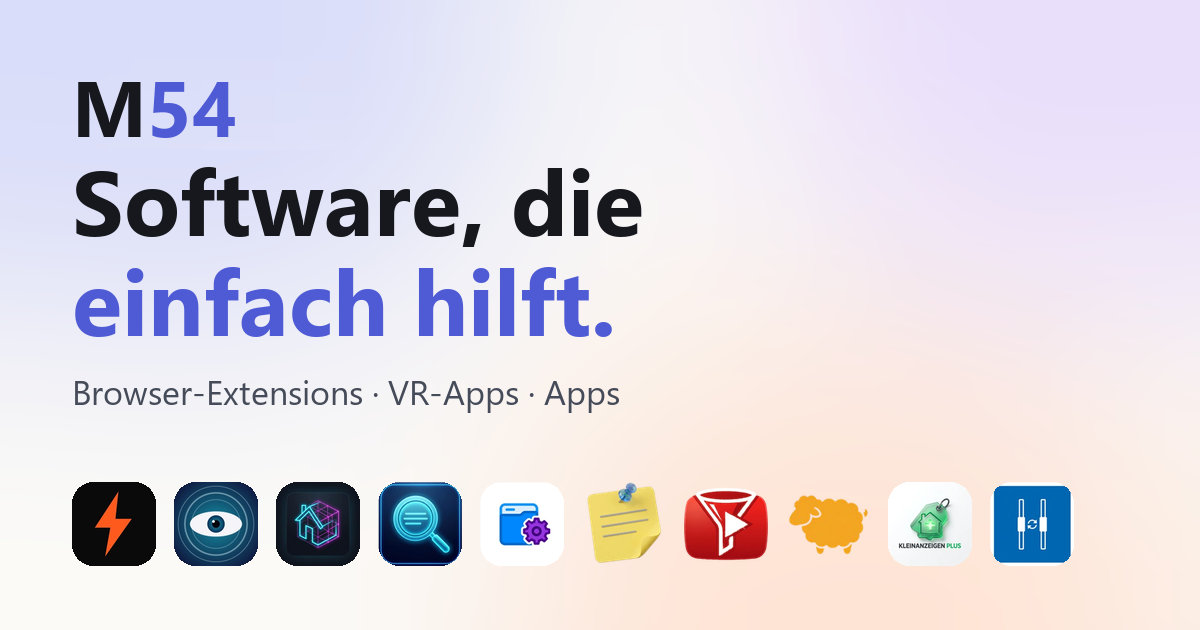
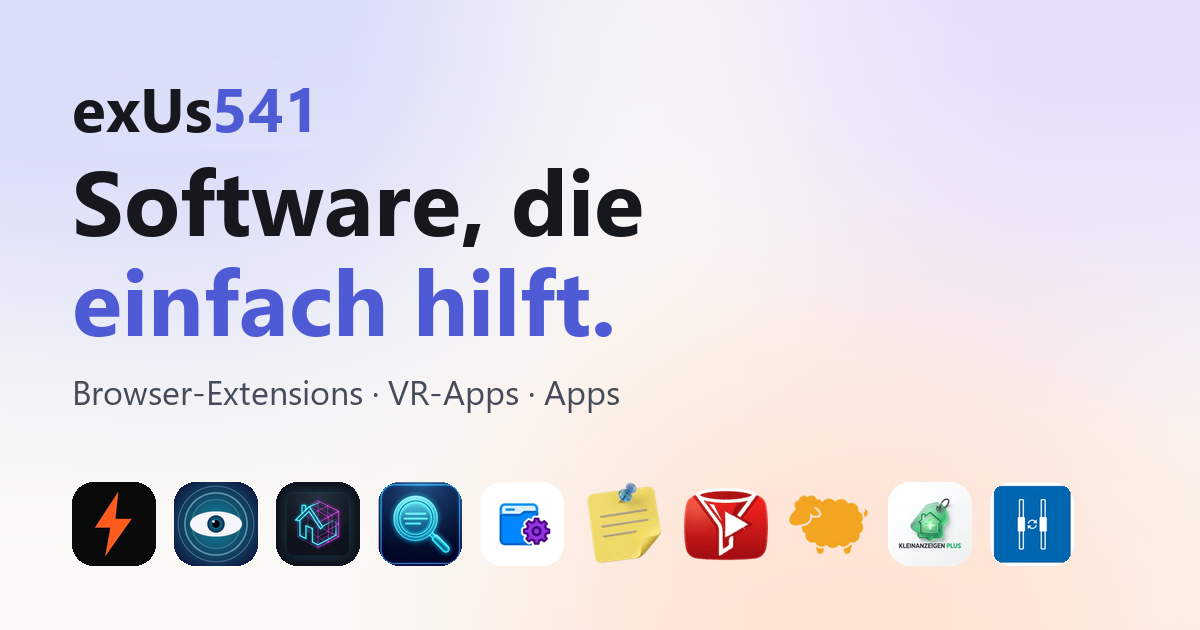
feat: Perspectives is live, rename brand back to exUs541 (#4)
Perspectives marked as published with its Meta Horizon Store link, brand renamed back to exUs541, README guide for small edits.

Changed region(s): [[0.0617, 0.1206, 0.2775, 0.2413]]

diff --git a/index.html b/index.html
@@ -3,18 +3,18 @@
 <head>
     <meta charset="UTF-8">
     <meta name="viewport" content="width=device-width, initial-scale=1.0">
-    <title data-de="M54 | Browser-Extensions, VR-Apps &amp; Apps – Stand und Termine" data-en="M54 | Browser extensions, VR apps &amp; apps – status and dates">M54 | Browser-Extensions, VR-Apps &amp; Apps – Stand und Termine</title>
-    <meta name="description" content="M54 entwickelt Browser-Extensions, VR-Apps für Meta Quest und Apps – hobbymäßig neben dem Beruf. Alle Lösungen, aktueller Stand, Fundorte und geplante Termine auf einen Blick. / Browser extensions, VR apps and apps by M54 – status, availability and planned dates at a glance.">
+    <title data-de="exUs541 | Browser-Extensions, VR-Apps &amp; Apps – Stand und Termine" data-en="exUs541 | Browser extensions, VR apps &amp; apps – status and dates">exUs541 | Browser-Extensions, VR-Apps &amp; Apps – Stand und Termine</title>
+    <meta name="description" content="exUs541 entwickelt Browser-Extensions, VR-Apps für Meta Quest und Apps – hobbymäßig neben dem Beruf. Alle Lösungen, aktueller Stand, Fundorte und geplante Termine auf einen Blick. / Browser extensions, VR apps and apps by exUs541 – status, availability and planned dates at a glance.">
     <meta name="google-site-verification" content="ENUICEJucibGlxNSVQ_SWEgc6a6xkH4N4cjW5O7rSPQ" />
     <link rel="canonical" href="https://exus541.github.io/portfolio/">
 
     <meta property="og:type" content="website">
     <meta property="og:url" content="https://exus541.github.io/portfolio/">
-    <meta property="og:title" content="M54 – Software, die einfach hilft">
+    <meta property="og:title" content="exUs541 – Software, die einfach hilft">
     <meta property="og:description" content="Browser-Extensions, VR-Apps und Apps: was es schon gibt, woran wir arbeiten und wann es fertig wird.">
     <meta property="og:image" content="https://exus541.github.io/portfolio/assets/og-image.png">
     <meta name="twitter:card" content="summary_large_image">
-    <meta name="twitter:title" content="M54 – Software, die einfach hilft">
+    <meta name="twitter:title" content="exUs541 – Software, die einfach hilft">
     <meta name="twitter:description" content="Browser-Extensions, VR-Apps und Apps: was es schon gibt, woran wir arbeiten und wann es fertig wird.">
     <meta name="twitter:image" content="https://exus541.github.io/portfolio/assets/og-image.png">
 
@@ -30,7 +30,7 @@
 
     <header class="site-header">
         <div class="container header-inner">
-            <a href="index.html" class="brand" aria-label="M54 – Startseite">M<span>54</span></a>
+            <a href="index.html" class="brand" aria-label="exUs541 – Startseite">exUs<span>541</span></a>
             <nav class="nav" id="nav" aria-label="Hauptnavigation" data-i18n-aria="nav.menu">
                 <a href="index.html#loesungen" data-i18n="nav.solutions">Lösungen</a>
                 <a href="index.html#zeitplan" data-i18n="nav.timeline">Zeitplan</a>
@@ -54,7 +54,7 @@
                 <div class="hero-inner">
                     <p class="pill" data-i18n="hero.pill">Hobbyprojekt – entwickelt neben dem Beruf</p>
                     <h1 data-i18n="hero.title">Software, die <em>einfach hilft.</em></h1>
-                    <p class="lead" data-i18n="hero.lead">M54 baut Browser-Extensions, VR-Apps und Apps für den Alltag. Hier siehst du auf einen Blick, was es schon gibt, woran wir arbeiten und wann es fertig wird.</p>
+                    <p class="lead" data-i18n="hero.lead">exUs541 baut Browser-Extensions, VR-Apps und Apps für den Alltag. Hier siehst du auf einen Blick, was es schon gibt, woran wir arbeiten und wann es fertig wird.</p>
                     <div class="hero-actions">
                         <a class="btn btn-dark" href="#loesungen"><span data-i18n="hero.cta1">Lösungen entdecken</span><span data-icon="arrow-right"></span></a>
                         <a class="btn btn-ghost" href="#zeitplan" data-i18n="hero.cta2">Was kommt wann?</a>
@@ -119,7 +119,7 @@
                 <div class="about-text">
                     <h2 data-i18n="about.title">Über uns</h2>
                     <p class="about-lead" data-i18n="about.lead">Wir entwickeln das alles aktuell hobbymäßig.</p>
-                    <p data-i18n="about.p1">Hinter M54 stecken Menschen mit ganz normalen Berufen. Alle Projekte hier entstehen in unserer Freizeit – abends, am Wochenende und aus purer Begeisterung dafür, nützliche Dinge zu bauen.</p>
+                    <p data-i18n="about.p1">Hinter exUs541 stecken Menschen mit ganz normalen Berufen. Alle Projekte hier entstehen in unserer Freizeit – abends, am Wochenende und aus purer Begeisterung dafür, nützliche Dinge zu bauen.</p>
                     <p data-i18n="about.p2">Weil wir berufstätig sind, können wir uns leider nicht ausschließlich auf die Entwicklung konzentrieren. Deshalb dauert manches länger, als wir es selbst gern hätten – und Termine sind Zielwerte, keine Garantien.</p>
                     <p data-i18n="about.p3">Unser Wunsch: irgendwann mehr Zeit für Software zu haben. Wenn dich unsere Arbeit überzeugt, kannst du uns genau dabei helfen (siehe unten).</p>
                 </div>
@@ -204,8 +204,8 @@
         <div class="container">
             <div class="footer-inner">
                 <div class="footer-links">
-                    <a href="index.html" class="brand" style="margin-right: 8px;">M<span>54</span></a>
-                    <span data-i18n="foot.rights">© {year} M54. Mit Hingabe gebaut – in der Freizeit.</span>
+                    <a href="index.html" class="brand" style="margin-right: 8px;">exUs<span>541</span></a>
+                    <span data-i18n="foot.rights">© {year} exUs541. Mit Hingabe gebaut – in der Freizeit.</span>
                     <a href="privacy.html" data-i18n="foot.privacy">Datenschutz</a>
                 </div>
                 <ul class="socials" id="socials">

diff --git a/privacy.html b/privacy.html
@@ -3,8 +3,8 @@
 <head>
     <meta charset="UTF-8">
     <meta name="viewport" content="width=device-width, initial-scale=1.0">
-    <title>Privacy Policy | M54</title>
-    <meta name="description" content="Privacy policy for the browser extensions, Android apps, Meta Quest VR apps (Nestwise, Perspectives) and website by M54.">
+    <title>Privacy Policy | exUs541</title>
+    <meta name="description" content="Privacy policy for the browser extensions, Android apps, Meta Quest VR apps (Nestwise, Perspectives) and website by exUs541.">
     <link rel="icon" type="image/png" href="assets/favicon.png">
     <link rel="preconnect" href="https://fonts.googleapis.com">
     <link rel="preconnect" href="https://fonts.gstatic.com" crossorigin>
@@ -53,7 +53,7 @@
 <body>
     <header class="site-header">
         <div class="container header-inner" style="max-width: 1120px;">
-            <a href="index.html" class="brand" aria-label="M54 – home">M<span>54</span></a>
+            <a href="index.html" class="brand" aria-label="exUs541 – home">exUs<span>541</span></a>
             <div class="header-actions">
                 <a href="index.html" class="btn btn-ghost btn-sm"><svg class="i" viewBox="0 0 24 24" aria-hidden="true"><path d="m12 19-7-7 7-7"/><path d="M19 12H5"/></svg><span>Back to overview</span></a>
             </div>
@@ -67,7 +67,7 @@
         </div>
 
         <div class="main-content">
-            <p class="lede">This policy covers everything I publish as <strong>M54</strong> (also known as exus541): browser extensions, Android apps, VR apps for Meta Quest, and this website. I build my software so that it works on your device and does not need your data.</p>
+            <p class="lede">This policy covers everything I publish as <strong>exUs541</strong>: browser extensions, Android apps, VR apps for Meta Quest, and this website. I build my software so that it works on your device and does not need your data.</p>
 
             <div class="toc" role="navigation" aria-label="Sections">
                 <a href="#summary">At a glance</a>
@@ -217,8 +217,8 @@
         <div class="container">
             <div class="footer-inner">
                 <div class="footer-links">
-                    <a href="index.html" class="brand" style="margin-right: 8px;">M<span>54</span></a>
-                    <span>&copy; 2026 M54. Built with care &ndash; in our spare time.</span>
+                    <a href="index.html" class="brand" style="margin-right: 8px;">exUs<span>541</span></a>
+                    <span>&copy; 2026 exUs541. Built with care &ndash; in our spare time.</span>
                 </div>
             </div>
         </div>

diff --git a/site.js b/site.js
@@ -1,4 +1,4 @@
-/* M54 – gemeinsame Helfer: Sprache (DE/EN), Icons, Kopfzeile */
+/* exUs541 – gemeinsame Helfer: Sprache (DE/EN), Icons, Kopfzeile */
 (function () {
   'use strict';
 
@@ -16,7 +16,7 @@
 
     'hero.pill': 'A passion project – built alongside our day jobs',
     'hero.title': 'Software that <em>simply helps.</em>',
-    'hero.lead': 'M54 builds browser extensions, VR apps and everyday apps. See at a glance what is available today, what we are working on and when it will be ready.',
+    'hero.lead': 'exUs541 builds browser extensions, VR apps and everyday apps. See at a glance what is available today, what we are working on and when it will be ready.',
     'hero.cta1': 'Explore solutions',
     'hero.cta2': 'What is coming when?',
 
@@ -34,7 +34,7 @@
 
     'about.title': 'About us',
     'about.lead': 'Right now, we build all of this as a hobby.',
-    'about.p1': 'The people behind M54 have regular day jobs. Everything you see here is made in our spare time – in the evenings, at weekends and out of pure enthusiasm for building useful things.',
+    'about.p1': 'The people behind exUs541 have regular day jobs. Everything you see here is made in our spare time – in the evenings, at weekends and out of pure enthusiasm for building useful things.',
     'about.p2': 'Because we work full time, we unfortunately cannot focus on development alone. That is why some things take longer than we would like – and why dates are targets, not guarantees.',
     'about.p3': 'Our wish is to have more time for software one day. If our work convinces you, you can help us get there (see below).',
     'about.badge.t': 'Right now: a hobby next to our jobs',
@@ -73,7 +73,7 @@
     'fb.road.d': 'See what is planned for our extensions and vote.',
     'fb.road.b': 'Open roadmap',
 
-    'foot.rights': '© {year} M54. Built with care – in our spare time.',
+    'foot.rights': '© {year} exUs541. Built with care – in our spare time.',
     'foot.privacy': 'Privacy Policy',
     'foot.marks': 'All product and brand names belong to their respective owners. Our extensions are independent and not affiliated with these companies.',
 

diff --git a/roadmap.html b/roadmap.html
@@ -3,8 +3,8 @@
 <head>
     <meta charset="UTF-8">
     <meta name="viewport" content="width=device-width, initial-scale=1.0">
-    <title>Roadmap | M54</title>
-    <meta name="description" content="Geplante Verbesserungen und Feature-Wünsche für die Browser-Extensions von M54.">
+    <title>Roadmap | exUs541</title>
+    <meta name="description" content="Geplante Verbesserungen und Feature-Wünsche für die Browser-Extensions von exUs541.">
     <link rel="icon" type="image/png" href="assets/favicon.png">
     <link rel="preconnect" href="https://fonts.googleapis.com">
     <link rel="preconnect" href="https://fonts.gstatic.com" crossorigin>
@@ -17,7 +17,7 @@
 
     <header class="site-header">
         <div class="container header-inner">
-            <a href="index.html" class="brand" aria-label="M54 – Startseite">M<span>54</span></a>
+            <a href="index.html" class="brand" aria-label="exUs541 – Startseite">exUs<span>541</span></a>
             <nav class="nav" id="nav" aria-label="Hauptnavigation" data-i18n-aria="nav.menu">
                 <a href="index.html#loesungen" data-i18n="nav.solutions">Lösungen</a>
                 <a href="index.html#zeitplan" data-i18n="nav.timeline">Zeitplan</a>
@@ -73,8 +73,8 @@
         <div class="container">
             <div class="footer-inner">
                 <div class="footer-links">
-                    <a href="index.html" class="brand" style="margin-right: 8px;">M<span>54</span></a>
-                    <span data-i18n="foot.rights">© {year} M54. Mit Hingabe gebaut – in der Freizeit.</span>
+                    <a href="index.html" class="brand" style="margin-right: 8px;">exUs<span>541</span></a>
+                    <span data-i18n="foot.rights">© {year} exUs541. Mit Hingabe gebaut – in der Freizeit.</span>
                     <a href="privacy.html" data-i18n="foot.privacy">Datenschutz</a>
                 </div>
             </div>

diff --git a/feedback.html b/feedback.html
@@ -3,7 +3,7 @@
 <head>
     <meta charset="UTF-8">
     <meta name="viewport" content="width=device-width, initial-scale=1.0">
-    <title>Feedback | M54</title>
+    <title>Feedback | exUs541</title>
     <meta name="description" content="Idee oder Fehler? Schick uns dein Feedback zu unseren Browser-Extensions und Apps.">
     <link rel="icon" type="image/png" href="assets/favicon.png">
     <link rel="preconnect" href="https://fonts.googleapis.com">
@@ -17,7 +17,7 @@
 
     <header class="site-header">
         <div class="container header-inner">
-            <a href="index.html" class="brand" aria-label="M54 – Startseite">M<span>54</span></a>
+            <a href="index.html" class="brand" aria-label="exUs541 – Startseite">exUs<span>541</span></a>
             <nav class="nav" id="nav" aria-label="Hauptnavigation" data-i18n-aria="nav.menu">
                 <a href="index.html#loesungen" data-i18n="nav.solutions">Lösungen</a>
                 <a href="index.html#zeitplan" data-i18n="nav.timeline">Zeitplan</a>
@@ -88,8 +88,8 @@
         <div class="container">
             <div class="footer-inner">
                 <div class="footer-links">
-                    <a href="index.html" class="brand" style="margin-right: 8px;">M<span>54</span></a>
-                    <span data-i18n="foot.rights">© {year} M54. Mit Hingabe gebaut – in der Freizeit.</span>
+                    <a href="index.html" class="brand" style="margin-right: 8px;">exUs<span>541</span></a>
+                    <span data-i18n="foot.rights">© {year} exUs541. Mit Hingabe gebaut – in der Freizeit.</span>
                     <a href="privacy.html" data-i18n="foot.privacy">Datenschutz</a>
                 </div>
             </div>

diff --git a/details/tabmaster.html b/details/tabmaster.html
@@ -3,7 +3,7 @@
 <head>
     <meta charset="UTF-8">
     <meta name="viewport" content="width=device-width, initial-scale=1.0">
-    <title>Rename Tabs & Change Tab Icons: TabMaster | M54</title>
+    <title>Rename Tabs & Change Tab Icons: TabMaster | exUs541</title>
     <link rel="icon" type="image/png" href="../assets/favicon.png">
     <link rel="preconnect" href="https://fonts.googleapis.com">
     <link rel="preconnect" href="https://fonts.gstatic.com" crossorigin>
@@ -13,7 +13,7 @@
 <body>
     <header class="site-header">
         <div class="container header-inner">
-            <a href="../index.html" class="brand" aria-label="M54 – home">M<span>54</span></a>
+            <a href="../index.html" class="brand" aria-label="exUs541 – home">exUs<span>541</span></a>
             <div class="header-actions">
                 <a href="../index.html#loesungen" class="btn btn-ghost btn-sm"><svg class="i" viewBox="0 0 24 24" aria-hidden="true"><path d="m12 19-7-7 7-7"/><path d="M19 12H5"/></svg><span>Back to overview</span></a>
             </div>
@@ -65,8 +65,8 @@
         <div class="container">
             <div class="footer-inner">
                 <div class="footer-links">
-                    <a href="../index.html" class="brand" style="margin-right: 8px;">M<span>54</span></a>
-                    <span>&copy; 2026 M54. Built with care &ndash; in our spare time.</span>
+                    <a href="../index.html" class="brand" style="margin-right: 8px;">exUs<span>541</span></a>
+                    <span>&copy; 2026 exUs541. Built with care &ndash; in our spare time.</span>
                     <a href="../privacy.html">Privacy Policy</a>
                 </div>
             </div>

diff --git a/details/webnote.html b/details/webnote.html
@@ -3,7 +3,7 @@
 <head>
     <meta charset="UTF-8">
     <meta name="viewport" content="width=device-width, initial-scale=1.0">
-    <title>WebNote: Draw, Highlight & Sticky Notes | M54</title>
+    <title>WebNote: Draw, Highlight & Sticky Notes | exUs541</title>
     <link rel="icon" type="image/png" href="../assets/favicon.png">
     <link rel="preconnect" href="https://fonts.googleapis.com">
     <link rel="preconnect" href="https://fonts.gstatic.com" crossorigin>
@@ -13,7 +13,7 @@
 <body>
     <header class="site-header">
         <div class="container header-inner">
-            <a href="../index.html" class="brand" aria-label="M54 – home">M<span>54</span></a>
+            <a href="../index.html" class="brand" aria-label="exUs541 – home">exUs<span>541</span></a>
             <div class="header-actions">
                 <a href="../index.html#loesungen" class="btn btn-ghost btn-sm"><svg class="i" viewBox="0 0 24 24" aria-hidden="true"><path d="m12 19-7-7 7-7"/><path d="M19 12H5"/></svg><span>Back to overview</span></a>
             </div>
@@ -63,8 +63,8 @@
         <div class="container">
             <div class="footer-inner">
                 <div class="footer-links">
-                    <a href="../index.html" class="brand" style="margin-right: 8px;">M<span>54</span></a>
-                    <span>&copy; 2026 M54. Built with care &ndash; in our spare time.</span>
+                    <a href="../index.html" class="brand" style="margin-right: 8px;">exUs<span>541</span></a>
+                    <span>&copy; 2026 exUs541. Built with care &ndash; in our spare time.</span>
                     <a href="../privacy.html">Privacy Policy</a>
                 </div>
             </div>

diff --git a/details/ytfilter.html b/details/ytfilter.html
@@ -3,7 +3,7 @@
 <head>
     <meta charset="UTF-8">
     <meta name="viewport" content="width=device-width, initial-scale=1.0">
-    <title>YouTube Channel Blocker & Video Filter | M54</title>
+    <title>YouTube Channel Blocker & Video Filter | exUs541</title>
     <link rel="icon" type="image/png" href="../assets/favicon.png">
     <link rel="preconnect" href="https://fonts.googleapis.com">
     <link rel="preconnect" href="https://fonts.gstatic.com" crossorigin>
@@ -13,7 +13,7 @@
 <body>
     <header class="site-header">
         <div class="container header-inner">
-            <a href="../index.html" class="brand" aria-label="M54 – home">M<span>54</span></a>
+            <a href="../index.html" class="brand" aria-label="exUs541 – home">exUs<span>541</span></a>
             <div class="header-actions">
                 <a href="../index.html#loesungen" class="btn btn-ghost btn-sm"><svg class="i" viewBox="0 0 24 24" aria-hidden="true"><path d="m12 19-7-7 7-7"/><path d="M19 12H5"/></svg><span>Back to overview</span></a>
             </div>
@@ -63,8 +63,8 @@
         <div class="container">
             <div class="footer-inner">
                 <div class="footer-links">
-                    <a href="../index.html" class="brand" style="margin-right: 8px;">M<span>54</span></a>
-                    <span>&copy; 2026 M54. Built with care &ndash; in our spare time.</span>
+                    <a href="../index.html" class="brand" style="margin-right: 8px;">exUs<span>541</span></a>
+                    <span>&copy; 2026 exUs541. Built with care &ndash; in our spare time.</span>
                     <a href="../privacy.html">Privacy Policy</a>
                 </div>
             </div>

diff --git a/details/siteblocker.html b/details/siteblocker.html
@@ -3,7 +3,7 @@
 <head>
     <meta charset="UTF-8">
     <meta name="viewport" content="width=device-width, initial-scale=1.0">
-    <title>Search Filter & Site Blocker | M54</title>
+    <title>Search Filter & Site Blocker | exUs541</title>
     <link rel="icon" type="image/png" href="../assets/favicon.png">
     <link rel="preconnect" href="https://fonts.googleapis.com">
     <link rel="preconnect" href="https://fonts.gstatic.com" crossorigin>
@@ -13,7 +13,7 @@
 <body>
     <header class="site-header">
         <div class="container header-inner">
-            <a href="../index.html" class="brand" aria-label="M54 – home">M<span>54</span></a>
+            <a href="../index.html" class="brand" aria-label="exUs541 – home">exUs<span>541</span></a>
             <div class="header-actions">
                 <a href="../index.html#loesungen" class="btn btn-ghost btn-sm"><svg class="i" viewBox="0 0 24 24" aria-hidden="true"><path d="m12 19-7-7 7-7"/><path d="M19 12H5"/></svg><span>Back to overview</span></a>
             </div>
@@ -65,8 +65,8 @@
         <div class="container">
             <div class="footer-inner">
                 <div class="footer-links">
-                    <a href="../index.html" class="brand" style="margin-right: 8px;">M<span>54</span></a>
-                    <span>&copy; 2026 M54. Built with care &ndash; in our spare time.</span>
+                    <a href="../index.html" class="brand" style="margin-right: 8px;">exUs<span>541</span></a>
+                    <span>&copy; 2026 exUs541. Built with care &ndash; in our spare time.</span>
                     <a href="../privacy.html">Privacy Policy</a>
                 </div>
             </div>

diff --git a/details/sapsignavio.html b/details/sapsignavio.html
@@ -3,7 +3,7 @@
 <head>
     <meta charset="UTF-8">
     <meta name="viewport" content="width=device-width, initial-scale=1.0">
-    <title>SAP Signavio Quick Switch | M54</title>
+    <title>SAP Signavio Quick Switch | exUs541</title>
     <link rel="icon" type="image/png" href="../assets/favicon.png">
     <link rel="preconnect" href="https://fonts.googleapis.com">
     <link rel="preconnect" href="https://fonts.gstatic.com" crossorigin>
@@ -13,7 +13,7 @@
 <body>
     <header class="site-header">
         <div class="container header-inner">
-            <a href="../index.html" class="brand" aria-label="M54 – home">M<span>54</span></a>
+            <a href="../index.html" class="brand" aria-label="exUs541 – home">exUs<span>541</span></a>
             <div class="header-actions">
                 <a href="../index.html#loesungen" class="btn btn-ghost btn-sm"><svg class="i" viewBox="0 0 24 24" aria-hidden="true"><path d="m12 19-7-7 7-7"/><path d="M19 12H5"/></svg><span>Back to overview</span></a>
             </div>
@@ -64,8 +64,8 @@
         <div class="container">
             <div class="footer-inner">
                 <div class="footer-links">
-                    <a href="../index.html" class="brand" style="margin-right: 8px;">M<span>54</span></a>
-                    <span>&copy; 2026 M54. Built with care &ndash; in our spare time.</span>
+                    <a href="../index.html" class="brand" style="margin-right: 8px;">exUs<span>541</span></a>
+                    <span>&copy; 2026 exUs541. Built with care &ndash; in our spare time.</span>
                     <a href="../privacy.html">Privacy Policy</a>
                 </div>
             </div>

diff --git a/details/kleinanzeigen.html b/details/kleinanzeigen.html
@@ -3,7 +3,7 @@
 <head>
     <meta charset="UTF-8">
     <meta name="viewport" content="width=device-width, initial-scale=1.0">
-    <title>Kleinanzeigen Plus | M54</title>
+    <title>Kleinanzeigen Plus | exUs541</title>
     <link rel="icon" type="image/png" href="../assets/favicon.png">
     <link rel="preconnect" href="https://fonts.googleapis.com">
     <link rel="preconnect" href="https://fonts.gstatic.com" crossorigin>
@@ -13,7 +13,7 @@
 <body>
     <header class="site-header">
         <div class="container header-inner">
-            <a href="../index.html" class="brand" aria-label="M54 – home">M<span>54</span></a>
+            <a href="../index.html" class="brand" aria-label="exUs541 – home">exUs<span>541</span></a>
             <div class="header-actions">
                 <a href="../index.html#loesungen" class="btn btn-ghost btn-sm"><svg class="i" viewBox="0 0 24 24" aria-hidden="true"><path d="m12 19-7-7 7-7"/><path d="M19 12H5"/></svg><span>Back to overview</span></a>
             </div>
@@ -62,8 +62,8 @@
         <div class="container">
             <div class="footer-inner">
                 <div class="footer-links">
-                    <a href="../index.html" class="brand" style="margin-right: 8px;">M<span>54</span></a>
-                    <span>&copy; 2026 M54. Built with care &ndash; in our spare time.</span>
+                    <a href="../index.html" class="brand" style="margin-right: 8px;">exUs<span>541</span></a>
+                    <span>&copy; 2026 exUs541. Built with care &ndash; in our spare time.</span>
                     <a href="../privacy.html">Privacy Policy</a>
                 </div>
             </div>

diff --git a/details/syncscrollpro.html b/details/syncscrollpro.html
@@ -3,7 +3,7 @@
 <head>
     <meta charset="UTF-8">
     <meta name="viewport" content="width=device-width, initial-scale=1.0">
-    <title>Sync Scroll Pro | M54</title>
+    <title>Sync Scroll Pro | exUs541</title>
     <link rel="icon" type="image/png" href="../assets/favicon.png">
     <link rel="preconnect" href="https://fonts.googleapis.com">
     <link rel="preconnect" href="https://fonts.gstatic.com" crossorigin>
@@ -13,7 +13,7 @@
 <body>
     <header class="site-header">
         <div class="container header-inner">
-            <a href="../index.html" class="brand" aria-label="M54 – home">M<span>54</span></a>
+            <a href="../index.html" class="brand" aria-label="exUs541 – home">exUs<span>541</span></a>
             <div class="header-actions">
                 <a href="../index.html#loesungen" class="btn btn-ghost btn-sm"><svg class="i" viewBox="0 0 24 24" aria-hidden="true"><path d="m12 19-7-7 7-7"/><path d="M19 12H5"/></svg><span>Back to overview</span></a>
             </div>
@@ -64,8 +64,8 @@
         <div class="container">
             <div class="footer-inner">
                 <div class="footer-links">
-                    <a href="../index.html" class="brand" style="margin-right: 8px;">M<span>54</span></a>
-                    <span>&copy; 2026 M54. Built with care &ndash; in our spare time.</span>
+                    <a href="../index.html" class="brand" style="margin-right: 8px;">exUs<span>541</span></a>
+                    <span>&copy; 2026 exUs541. Built with care &ndash; in our spare time.</span>
                     <a href="../privacy.html">Privacy Policy</a>
                 </div>
             </div>
